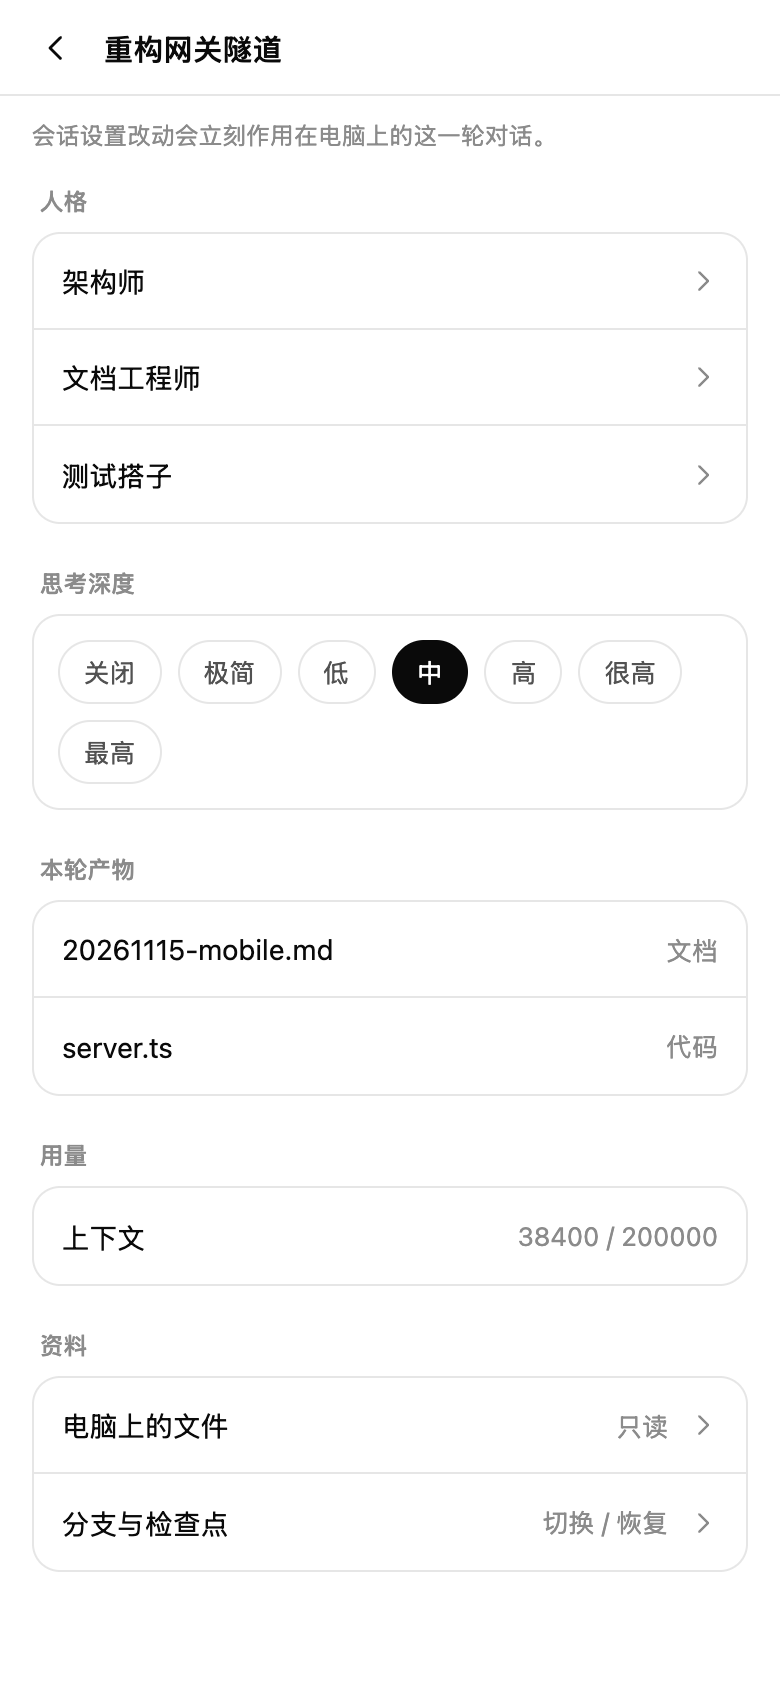
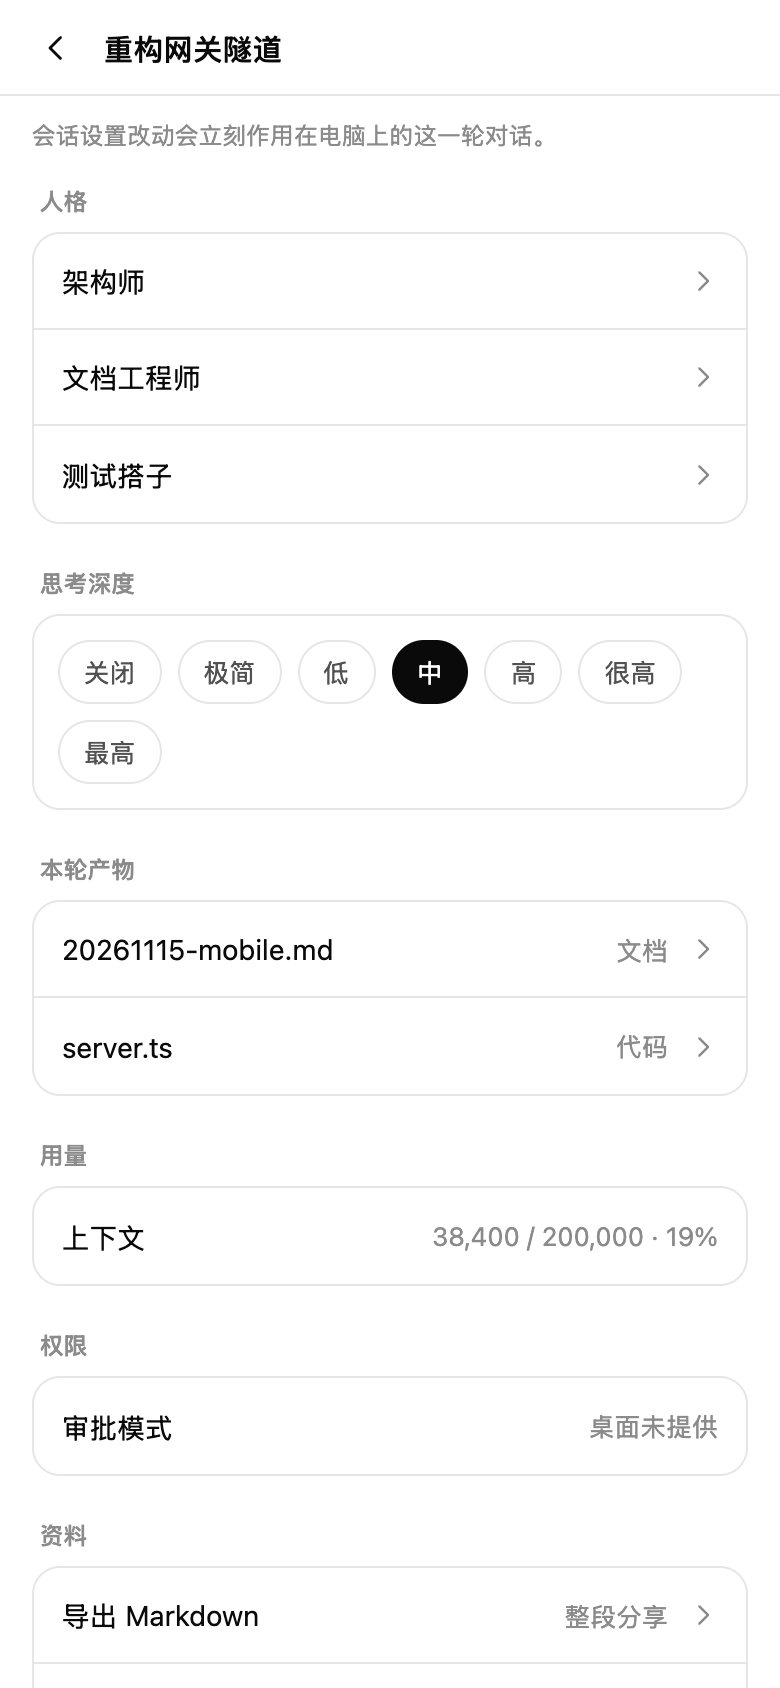
polish(mobile): 会话用量显示千分位与百分比（v3 §9.20）
裸数字难判断上下文剩余空间；formatUsage 输出 38,400 / 200,000 · 19%，
total 为 0 时省略百分比。

diff --git a/apps/mobile/src/core/session-panel.ts b/apps/mobile/src/core/session-panel.ts
@@ -92,6 +92,20 @@ export function toArtifacts(raw: unknown): ArtifactEntry[] {
   return entries
 }
 
+/**
+ * Context-window usage as the panel shows it: `38,400 / 200,000 · 19%`.
+ * Raw digits are hard to compare at a glance on a phone, and a percentage is
+ * how people actually judge "how full is this window".
+ */
+export function formatUsage(usage?: { used?: number; total?: number }): string | undefined {
+  const used = usage?.used
+  const total = usage?.total
+  if (typeof used !== 'number' || typeof total !== 'number') return undefined
+  const percent = total > 0 ? Math.round((used / total) * 100) : undefined
+  const base = `${used.toLocaleString('zh-CN')} / ${total.toLocaleString('zh-CN')}`
+  return percent === undefined ? base : `${base} · ${percent}%`
+}
+
 function isAbsolutePath(path: string): boolean {
   return path.startsWith('/') || /^[A-Za-z]:[\\/]/.test(path)
 }
@@ -107,7 +121,8 @@ export function resolveArtifactPath(path: string, cwd?: string): string {
   return `${cwd.replace(/[\\/]+$/, '')}/${trimmed.replace(/^[.][\\/]/, '')}`
 }
 
-/** `agent_set_thinking_level` only accepts these; anything else is refused. */export function thinkingLevelPayload(level: string): { level: ThinkingLevel } | null {
+/** `agent_set_thinking_level` only accepts these; anything else is refused. */
+export function thinkingLevelPayload(level: string): { level: ThinkingLevel } | null {
   return isThinkingLevel(level) ? { level } : null
 }
 

diff --git a/apps/mobile/app/session/[sessionId].tsx b/apps/mobile/app/session/[sessionId].tsx
@@ -15,6 +15,7 @@ import { useLocalSearchParams, useRouter } from 'expo-router'
 import { ChevronRightIcon } from '../../src/components/icons'
 import { permissionModeLabel } from '../../src/core/approvals'
 import {
+  formatUsage,
   resolveArtifactPath,
   thinkingLevelLabel,
   thinkingLevelPayload,
@@ -119,7 +120,7 @@ export default function SessionPanelScreen() {
       setThinking(demo?.thinkingLevel as ThinkingLevel | undefined)
       setArtifacts(toArtifacts(demo?.artifacts ?? []))
       setCwd(previewState().sessions.find(item => item.id === sessionId)?.cwd)
-      setUsage(demo?.usage ? `${demo.usage.used} / ${demo.usage.total}` : undefined)
+      setUsage(formatUsage(demo?.usage))
       return
     }
     if (!transport) return
@@ -137,9 +138,7 @@ export default function SessionPanelScreen() {
       setThinking(typeof level === 'string' && (THINKING_LEVELS as readonly string[]).includes(level) ? level as ThinkingLevel : undefined)
       setArtifacts(toArtifacts(artifactList))
       setCwd(typeof sessionInfo?.cwd === 'string' ? sessionInfo.cwd : undefined)
-      const used = sessionInfo?.usage?.used
-      const total = sessionInfo?.usage?.total
-      setUsage(typeof used === 'number' && typeof total === 'number' ? `${used} / ${total}` : undefined)
+      setUsage(formatUsage(sessionInfo?.usage))
     } catch (failure) {
       setError(failure instanceof Error ? failure.message : String(failure))
     } finally {

diff --git a/apps/mobile/src/core/__tests__/session-panel.test.ts b/apps/mobile/src/core/__tests__/session-panel.test.ts
@@ -1,6 +1,7 @@
 import { describe, expect, it } from 'vitest'
 
 import {
+  formatUsage,
   isThinkingLevel,
   nextThinkingLevel,
   resolveArtifactPath,
@@ -42,6 +43,18 @@ describe('toArtifacts', () => {
 
   it('ignores entries without a path', () => {
     expect(toArtifacts([{ kind: 'image' }, 42])).toEqual([])
+  })
+})
+
+describe('formatUsage', () => {
+  it('groups digits and adds a percentage', () => {
+    expect(formatUsage({ used: 38_400, total: 200_000 })).toBe('38,400 / 200,000 · 19%')
+  })
+
+  it('handles zero total and missing numbers', () => {
+    expect(formatUsage({ used: 5, total: 0 })).toBe('5 / 0')
+    expect(formatUsage({ used: 5 })).toBeUndefined()
+    expect(formatUsage()).toBeUndefined()
   })
 })
 

diff --git a/docs/plan/20261117-mobile.md b/docs/plan/20261117-mobile.md
@@ -657,6 +657,18 @@ gateway `bun test` **364/364**、`tsc` 与 iOS/web `expo export` 通过。
 真链路 13 屏 + 产物预览通过、`tsc` 与 iOS/Android/web `expo export` 通过。
 新增截图 `mobile-artifact-preview.png`。
 
+### 9.20 用量可读性（2026-11-19，第二十轮）
+
+| 检查 | 结果 | 处理 |
+|---|---|---|
+| 会话设置「用量」 | 显示裸数字 `38400 / 200000`，手机上难判断剩余空间 | `formatUsage()` 输出 `38,400 / 200,000 · 19%`（千分位 + 百分比，`total=0` 时省略百分比） |
+| 测试 | — | 2 条单测覆盖正常值与缺失/零值 |
+
+**当前 v3：98/100**（A 25 + B 15 + C 20 + D 15 + E 14 + F 9）。
+第二十轮验证：手机端 **238** 单测、App E2E **114/114**、预览 UI **34/34**、
+`tsc` 与 iOS/Android/web `expo export` 通过。
+更新截图 `mobile-panel(_dark).png`。
+
 ---
 
 ## 10. 非功能目标
